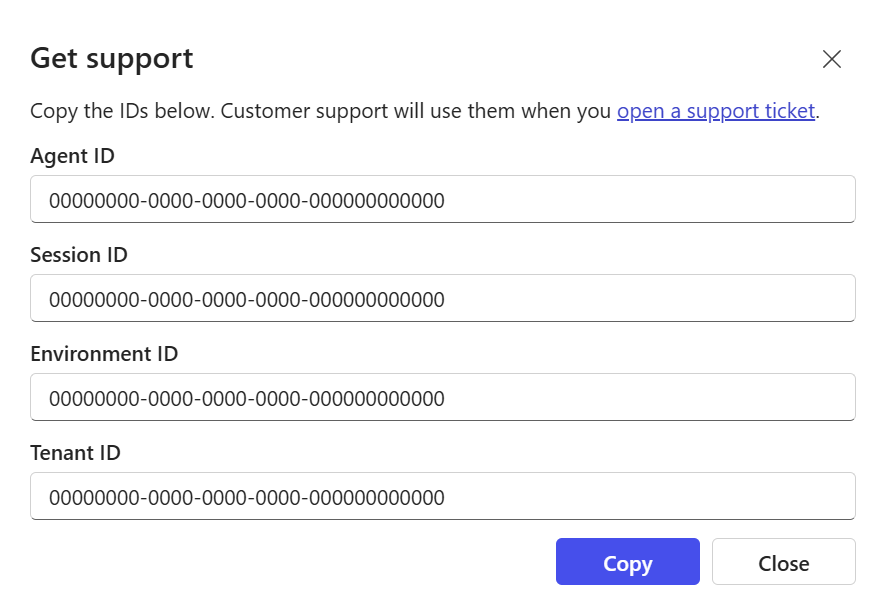
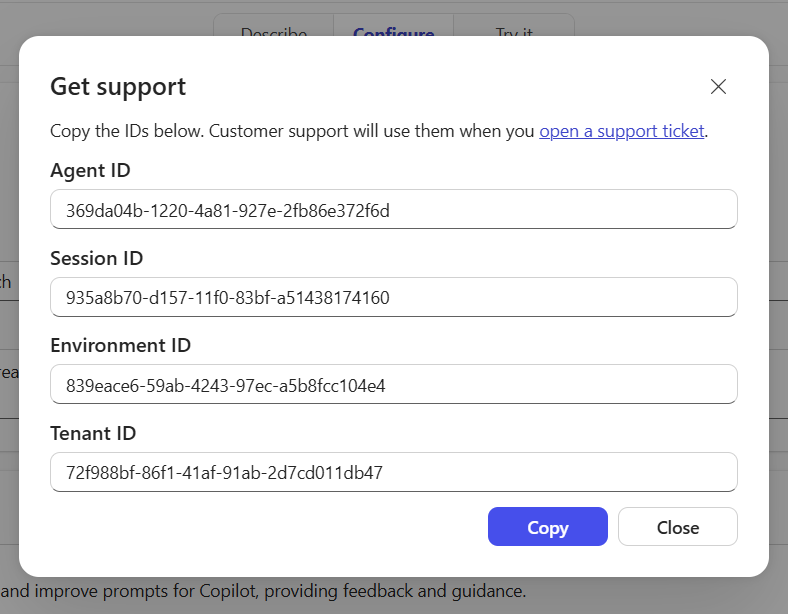
Updating images to match UI

Changed region(s): [[0.0, 0.0, 1.0, 1.0], [0.9137, 0.3404, 0.9442, 0.3713], [0.9137, 0.0928, 0.9442, 0.1238]]

diff --git a/docs/agent-builder-add-knowledge.md b/docs/agent-builder-add-knowledge.md
@@ -74,10 +74,6 @@ You can also select files or folders from the SharePoint file picker by choosing
 
 After you select a site, you can select several files and folders. Doing so adds the SharePoint file or folder to the agent's knowledge sources. When the same site includes multiple folders, select the button next to the folder name to view other folders.
 
-:::image type="content" source="assets/images/agent-builder-screenshots/embedded-authoring-sharepoint-picker-folders.png" alt-text="SharePoint file picker":::
-
-You can also upload files into SharePoint by using the picker. The file appears in the same folder after it finishes uploading and is ready for use.
-
 ### File readiness
 
 When new files are uploaded to SharePoint, they can take up to several minutes to be ready for the agent to include in its response. You can still test your agent in the test pane if sources aren't ready. However, responses don't include information from the newly uploaded file until it's ready.
